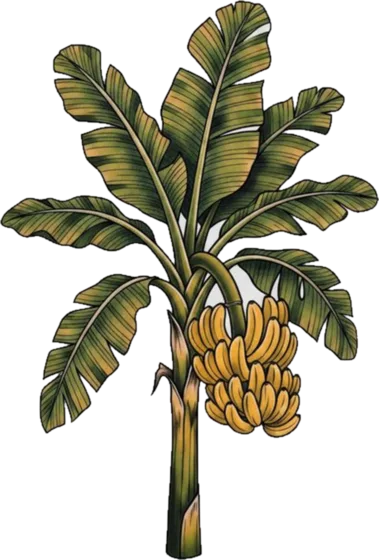
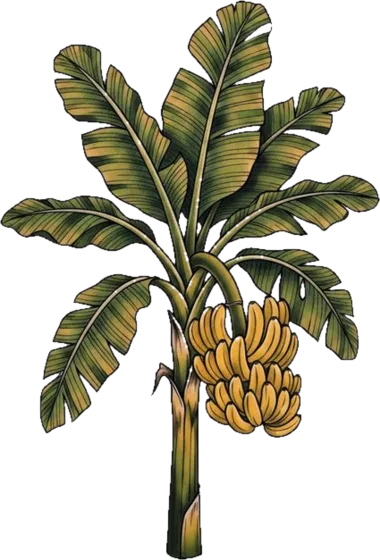
Footer: remove white pockets between banana leaves
Keyed the light-grey background out globally instead of flood filling from
the corners, so the enclosed gaps between leaves are transparent too.

diff --git a/404.html b/404.html
@@ -123,7 +123,7 @@
     <div class="plant plant--chai"><img src="/images/footer/chai.webp" alt="" width="380" height="560" loading="lazy"></div>
     <div class="plant plant--boat"><img src="/images/footer/boat.webp" alt="" width="640" height="493" loading="lazy"></div>
     <div class="plant plant--kdancer"><img src="/images/footer/kdancer.webp" alt="" width="560" height="633" loading="lazy"></div>
-    <div class="plant plant--banana"><img src="/images/footer/banana.webp" alt="" width="379" height="560" loading="lazy"></div>
+    <div class="plant plant--banana"><img src="/images/footer/banana.webp" alt="" width="380" height="560" loading="lazy"></div>
 
     <!-- ground bits -->
     <i class="deco deco-6 deco--grass"><svg><use href="/assets/doodles.svg?v=3#grass"/></svg></i>

diff --git a/about/index.html b/about/index.html
@@ -179,7 +179,7 @@
     <div class="plant plant--chai"><img src="/images/footer/chai.webp" alt="" width="380" height="560" loading="lazy"></div>
     <div class="plant plant--boat"><img src="/images/footer/boat.webp" alt="" width="640" height="493" loading="lazy"></div>
     <div class="plant plant--kdancer"><img src="/images/footer/kdancer.webp" alt="" width="560" height="633" loading="lazy"></div>
-    <div class="plant plant--banana"><img src="/images/footer/banana.webp" alt="" width="379" height="560" loading="lazy"></div>
+    <div class="plant plant--banana"><img src="/images/footer/banana.webp" alt="" width="380" height="560" loading="lazy"></div>
 
     <!-- ground bits -->
     <i class="deco deco-6 deco--grass"><svg><use href="/assets/doodles.svg?v=3#grass"/></svg></i>

diff --git a/index.html b/index.html
@@ -331,7 +331,7 @@
     <div class="plant plant--chai"><img src="/images/footer/chai.webp" alt="" width="380" height="560" loading="lazy"></div>
     <div class="plant plant--boat"><img src="/images/footer/boat.webp" alt="" width="640" height="493" loading="lazy"></div>
     <div class="plant plant--kdancer"><img src="/images/footer/kdancer.webp" alt="" width="560" height="633" loading="lazy"></div>
-    <div class="plant plant--banana"><img src="/images/footer/banana.webp" alt="" width="379" height="560" loading="lazy"></div>
+    <div class="plant plant--banana"><img src="/images/footer/banana.webp" alt="" width="380" height="560" loading="lazy"></div>
 
     <!-- ground bits -->
     <i class="deco deco-6 deco--grass"><svg><use href="/assets/doodles.svg?v=3#grass"/></svg></i>

diff --git a/work/thatpam/index.html b/work/thatpam/index.html
@@ -182,7 +182,7 @@
     <div class="plant plant--chai"><img src="/images/footer/chai.webp" alt="" width="380" height="560" loading="lazy"></div>
     <div class="plant plant--boat"><img src="/images/footer/boat.webp" alt="" width="640" height="493" loading="lazy"></div>
     <div class="plant plant--kdancer"><img src="/images/footer/kdancer.webp" alt="" width="560" height="633" loading="lazy"></div>
-    <div class="plant plant--banana"><img src="/images/footer/banana.webp" alt="" width="379" height="560" loading="lazy"></div>
+    <div class="plant plant--banana"><img src="/images/footer/banana.webp" alt="" width="380" height="560" loading="lazy"></div>
 
     <!-- ground bits -->
     <i class="deco deco-6 deco--grass"><svg><use href="/assets/doodles.svg?v=3#grass"/></svg></i>
